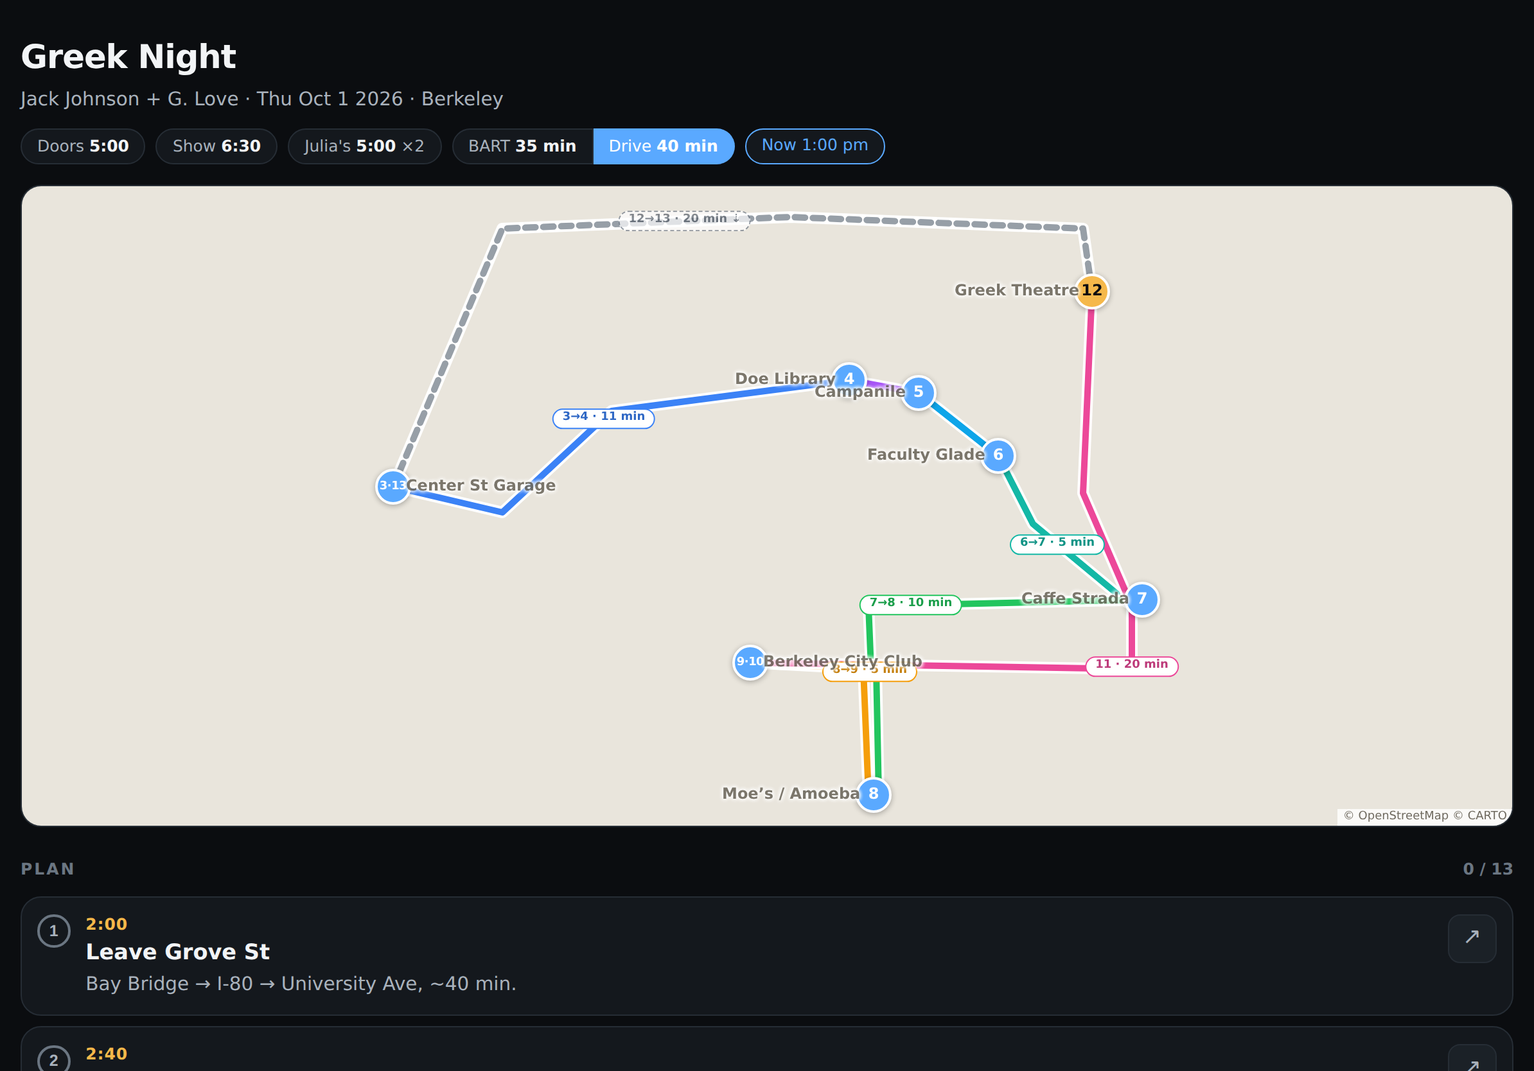
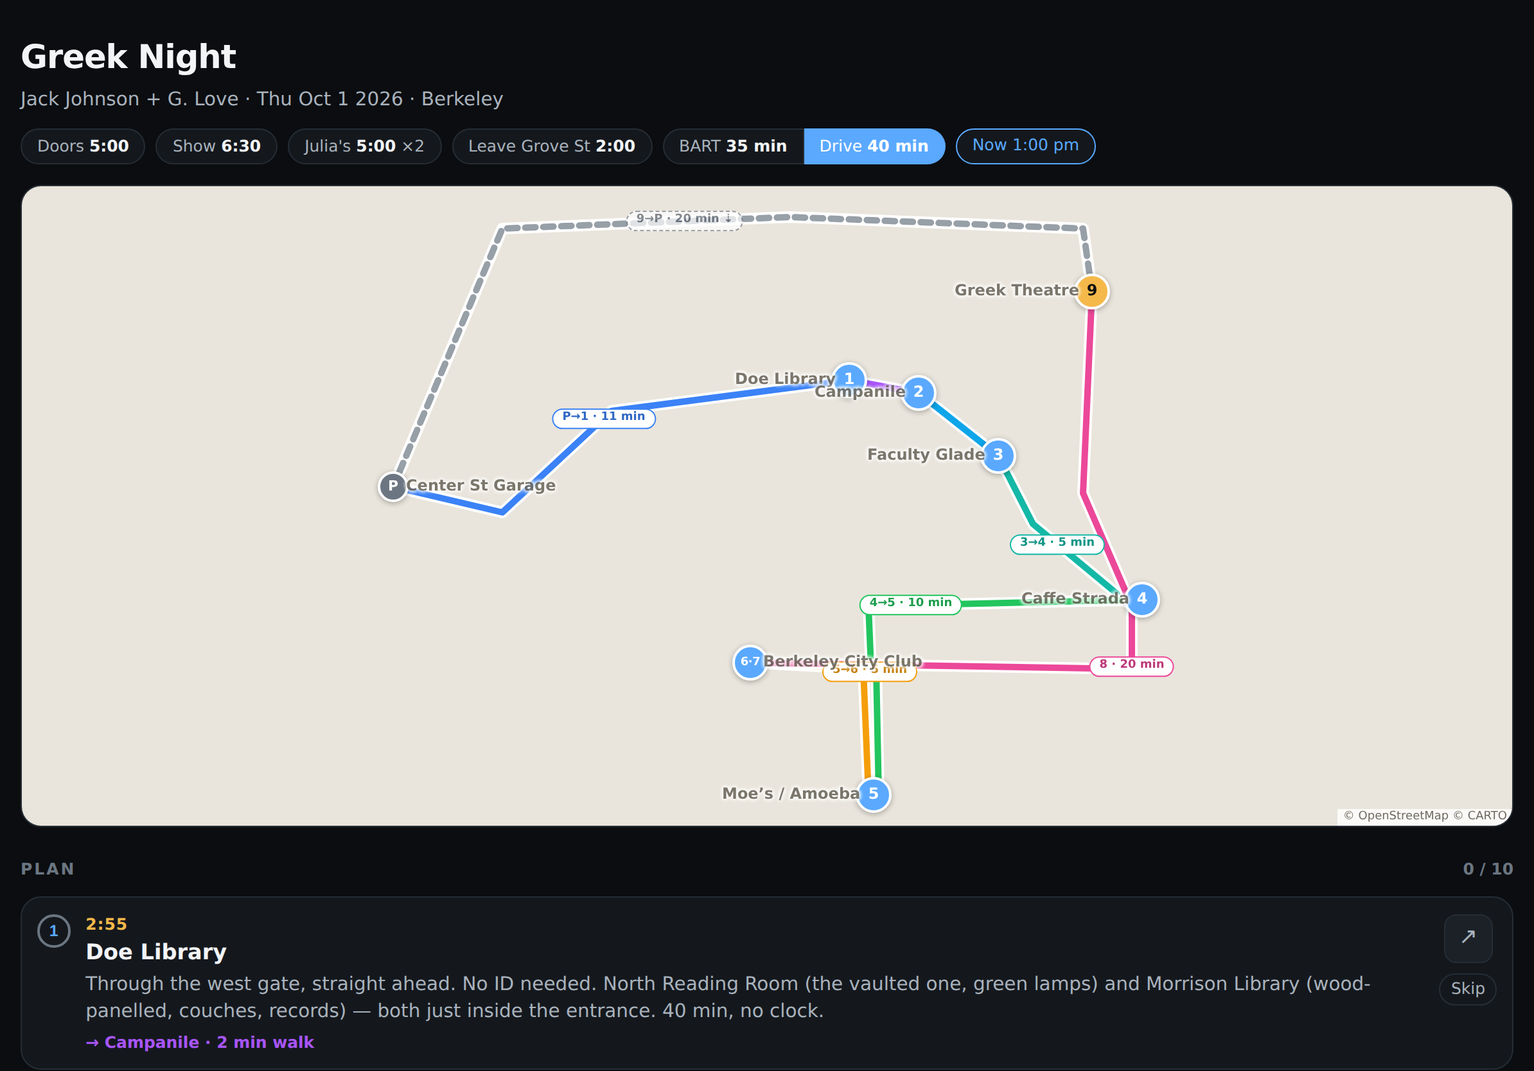
greek-night: Leaflet tile map, 10-step plan, walk-to-next on rows
The Leaflet map landed in 9ee3f88; this commit reshapes the plan on it.

The plan is 10 steps from the library: Doe, the Campanile ride, Faculty
Glade, Strada, Telegraph, City Club and Julia's (6·7), the walk up (pill
"8 · 20 min"), the Greek (9) and home (10). Getting there moves out of
the plan: a "Leave Grove St 2:00" chip joins the header, and the start
pin is an unnumbered 24px grey circle lettered P (garage) or B (BART)
that also ends the walk back in Drive; BART ends it at an unnumbered
North Gate pin. Only step 10 changes with the mode. Legs are keyed from
the start pin (S-1 … 6-9), steps 1–6 can be skipped, and the Sather Gate
override is 2-5.

Every row with a pin shows the walk on, in the leg's colour, off the
live legs: "→ Campanile · 2 min walk", the dinner row "→ Greek Theatre ·
20 min walk, uphill", the Greek row the walk back. Row 6 points at
dinner in the same building. Storage key moves to greek-night-v4.

Claude-Session: https://claude.ai/code/session_01SYEqCQ4izqiJdBAjLeUwFf

diff --git a/greek-night.html b/greek-night.html
@@ -56,6 +56,8 @@
   .item.now .time,.item.linked .time{color:var(--now)}
   .title{font-size:var(--t2);font-weight:600;margin-top:.1rem}
   .note{color:var(--ink2);font-size:var(--t3);margin-top:var(--s1)}
+  .next{font-size:var(--t4);font-weight:600;margin-top:var(--s1)}
+  .next:empty{display:none}
   .map{flex:none;display:inline-grid;place-items:center;width:2.4rem;height:2.4rem;border-radius:var(--r2);background:var(--card2);border:1px solid var(--line);text-decoration:none;font-size:1.1rem;margin-top:.05rem;color:var(--ink2)}
   .map:active{background:var(--line)}
   .side{display:flex;flex-direction:column;align-items:center;gap:var(--s2)}
@@ -76,6 +78,7 @@
   /* pins: a numbered circle; a ring pulses on the current step; done steps fade */
   .pinm{width:28px;height:28px;border-radius:50%;background:var(--now);border:2px solid #fff;color:#fff;font-weight:700;font-size:12px;display:grid;place-items:center;box-shadow:0 1px 4px rgba(0,0,0,.3);transition:opacity .2s}
   .pinm.greek{background:var(--accent);color:#0b0d10}
+  .pinm.start{width:24px;height:24px;background:var(--ink3);font-size:11px}
   .pinm.two{font-size:9px;letter-spacing:-.03em}
   .pinm.done{opacity:.45}
   .pinm.now::after{content:"";position:absolute;inset:-2px;border-radius:50%;border:2px solid var(--now);animation:gnPulse 2s ease-out infinite}
@@ -110,6 +113,7 @@
     <span class="chip">Doors <b>5:00</b></span>
     <span class="chip">Show <b>6:30</b></span>
     <span class="chip">Julia's <b>5:00</b> ×2</span>
+    <span class="chip">Leave Grove St <b>2:00</b></span>
     <span class="modes" role="group" aria-label="Getting there"><button type="button" class="chip seg" data-mode="bart" aria-pressed="true">BART <b>35 min</b></button><button type="button" class="chip seg" data-mode="drive" aria-pressed="false">Drive <b>40 min</b></button></span>
     <span class="chip now" id="clock"><span id="clocktime">—</span><span class="sub" id="clocksub" hidden></span></span>
   </div>
@@ -142,7 +146,6 @@
 
   var GARAGE_MAP = M('Center Street Parking Garage 2025 Center St Berkeley');
   var PLAN = [
-    null, null, null,
     {t:'2:55', h:14, m:55, title:'Doe Library', note:'Through the west gate, straight ahead. No ID needed. North Reading Room (the vaulted one, green lamps) and Morrison Library (wood-panelled, couches, records) — both just inside the entrance. 40 min, no clock.', map:M('Doe Memorial Library UC Berkeley')},
     {t:'3:35', h:15, m:35, title:'Campanile — up', note:'$6, card only, open till 5. Ride up, 15 min on the deck: the bay, both bridges, the Greek below you.', map:M('Sather Tower UC Berkeley')},
     {t:'3:55', h:15, m:55, title:'Faculty Glade', note:'Behind the tower toward College: quiet lawn under old oaks, redwoods, Strawberry Creek running through. Sit 15.', map:M('Faculty Glade UC Berkeley')},
@@ -154,22 +157,12 @@
     {t:'6:35', h:18, m:35, title:'In the gate', note:'G. Love on. Jack ~8:00. Done ~10:15. GA pit — standing, front of stage. Water refill on the middle concourse.', map:M('Greek Theatre 2001 Gayley Rd Berkeley')},
     null
   ];
-  /* Getting there and back depends on the travel mode; steps 4–12 are the same either way */
+  /* the way home depends on the travel mode; so do the start pin and the walk back, below */
   var MODE_ROWS = {
-    bart: {
-      0:{t:'2:00', h:14, m:0, title:'Leave Grove St', note:'Uber to Civic Center BART.', map:M('Civic Center BART Station San Francisco')},
-      1:{t:'2:20', h:14, m:20, title:'Red line → Richmond', note:'Sit on the right side for the bay. ~35 min.', map:M('Civic Center BART Station San Francisco')},
-      2:{t:'2:55', h:14, m:55, title:'Downtown Berkeley BART', note:'Exit to Shattuck, east on Center St two blocks to campus.', map:M('Downtown Berkeley BART Station')},
-      12:{t:'10:15', h:22, m:15, title:'Uber from North Gate', note:'Out the north side: up Gayley to Hearst, west on Hearst to Euclid. 8 min downhill, clear of the Gayley crowd. If surge is bad keep going west to Shattuck (10 more min).', map:M('Hearst Ave & Euclid Ave Berkeley')}
-    },
-    drive: {
-      0:{t:'2:00', h:14, m:0, title:'Leave Grove St', note:'Bay Bridge → I-80 → University Ave, ~40 min.', map:GARAGE_MAP},
-      1:{t:'2:40', h:14, m:40, title:'Park · Center St Garage', note:'2025 Center St, enter from Center. $25 for the day, exit by 1 am. 20 EV spots — plug in.', map:GARAGE_MAP},
-      2:{t:'2:50', h:14, m:50, title:'Walk from the garage', note:'Out onto Center St, east two blocks to campus.', map:GARAGE_MAP},
-      12:{t:'10:15', h:22, m:15, title:'Back to the car', note:'Out the north side: Gayley → Hearst west → Oxford south → Center. 15 min downhill, clear of the Gayley crowd.', map:GARAGE_MAP}
-    }
+    bart: {9:{t:'10:15', h:22, m:15, title:'Uber from North Gate', note:'Out the north side: up Gayley to Hearst, west on Hearst to Euclid. 8 min downhill, clear of the Gayley crowd. If surge is bad keep going west to Shattuck (10 more min).', map:M('Hearst Ave & Euclid Ave Berkeley')}},
+    drive: {9:{t:'10:15', h:22, m:15, title:'Back to the car', note:'Out the north side: Gayley → Hearst west → Oxford south → Center. 20 min downhill, clear of the Gayley crowd.', map:GARAGE_MAP}}
   };
-  var MODE_STEPS = [0, 1, 2, 12];
+  var MODE_STEPS = [9];
 
   var BRING = [
     'Hoodie / jacket — mid-50s after dark',
@@ -181,7 +174,7 @@
     'Phone charged · Clipper in Wallet · tickets in Wallet'
   ];
 
-  var KEY = 'greek-night-v3';
+  var KEY = 'greek-night-v4';
   var state = {};
   try { state = JSON.parse(localStorage.getItem(KEY) || '{}') || {}; } catch (e) { state = {}; }
   function save(){ try { localStorage.setItem(KEY, JSON.stringify(state)); } catch (e) {} }
@@ -204,6 +197,7 @@
     if (time) { var tt = document.createElement('div'); tt.className = 'time'; tt.textContent = time; body.appendChild(tt); }
     var ti = document.createElement('div'); ti.className = 'title'; ti.textContent = title; body.appendChild(ti);
     if (note) { var nn = document.createElement('div'); nn.className = 'note'; nn.textContent = note; body.appendChild(nn); }
+    if (id.charAt(0) === 'p') { var nx = document.createElement('div'); nx.className = 'next'; body.appendChild(nx); }
     el.appendChild(cb); el.appendChild(body);
     if (map) {
       var a = document.createElement('a'); a.className = 'map'; a.href = map; a.target = '_blank'; a.rel = 'noopener';
@@ -219,10 +213,10 @@
   var rowEls = PLAN.map(function(p, i){ return planEl.appendChild(row('p' + i, p.t, p.title, p.note, p.map)); });   /* by step; the list itself reorders */
   BRING.forEach(function(b, i){ bringEl.appendChild(row('b' + i, '', b, '', '')); });
 
-  /* steps 4–9 can be skipped: a chip under the ↗ button; the row's right column stacks the two */
+  /* steps 1–6 can be skipped: a chip under the ↗ button; the row's right column stacks the two */
   function isSkipped(step){ return !!(state.skip && state.skip['p' + (step - 1)]); }
   function skipGain(i){ return (PLAN[i + 1].h * 60 + PLAN[i + 1].m) - (PLAN[i].h * 60 + PLAN[i].m); }
-  [4, 5, 6, 7, 8, 9].forEach(function(step){
+  [1, 2, 3, 4, 5, 6].forEach(function(step){
     var r = rowEls[step - 1], a = r.querySelector('.map');
     var side = document.createElement('div'); side.className = 'side';
     r.replaceChild(side, a); side.appendChild(a);
@@ -298,6 +292,8 @@
       var note = r.querySelector('.note'), btn = r.querySelector('.skipbtn');
       if (note) note.textContent = sk ? 'Skipped · +' + skipGain(i) + ' min' : PLAN[i].note;
       if (btn) btn.textContent = sk ? 'Restore' : 'Skip';
+      var nx = r.querySelector('.next'), wl = sk ? null : walkNext(i + 1);
+      if (nx) { nx.textContent = wl ? wl.txt : ''; nx.style.color = wl ? wl.col : ''; }
       if (sk) skipped++; else if (checked) done++;
     });
     reorder(ps);
@@ -310,60 +306,74 @@
     paintMap(ps.cur);
   }
 
+  /* the walk on from a step's stop, off the live legs: the stop's last step gets its outbound leg (the Greek gets the walk
+     back); an earlier step at a shared stop just points at the next step there */
+  function walkNext(k){
+    var pin = PLACES.filter(function(s){ return s.steps.indexOf(k) >= 0; })[0];
+    if (!pin) return null;
+    var ls = liveSteps(pin);
+    if (k !== ls[ls.length - 1]) return {txt:'→ ' + PLAN[ls[ls.indexOf(k) + 1] - 1].title + ' · same building', col:''};
+    var l = LEGS.filter(function(l){ return l.a === pin; })[0];
+    if (!l) return null;
+    return {txt:'→ ' + l.b.n + ' · ' + l.min + ' min walk' + (l.b.greek ? ', uphill' : ''), col:l.col};
+  }
+
   /* ---------- the route: pins, legs, bypasses ---------- */
   var SHARED = [
-    {n:'Doe Library', lat:37.8723, lng:-122.2592, steps:[4]},
-    {n:'Campanile', lat:37.8721, lng:-122.2578, steps:[5]},
-    {n:'Faculty Glade', lat:37.8711, lng:-122.2562, steps:[6]},
-    {n:'Caffe Strada', lat:37.8688, lng:-122.2533, steps:[7]},
-    {n:'Moe’s / Amoeba', lat:37.8657, lng:-122.2587, steps:[8]},
-    {n:'Berkeley City Club', lat:37.8678, lng:-122.2612, steps:[9, 10]},
-    {n:'Greek Theatre', lat:37.8737, lng:-122.2543, steps:[12], greek:true}
+    {n:'Doe Library', lat:37.8723, lng:-122.2592, steps:[1]},
+    {n:'Campanile', lat:37.8721, lng:-122.2578, steps:[2]},
+    {n:'Faculty Glade', lat:37.8711, lng:-122.2562, steps:[3]},
+    {n:'Caffe Strada', lat:37.8688, lng:-122.2533, steps:[4]},
+    {n:'Moe’s / Amoeba', lat:37.8657, lng:-122.2587, steps:[5]},
+    {n:'Berkeley City Club', lat:37.8678, lng:-122.2612, steps:[6, 7]},
+    {n:'Greek Theatre', lat:37.8737, lng:-122.2543, steps:[9], greek:true}
   ];
-  /* per mode: the pin step 3 starts from, the pin step 13 ends at (when it's not the same one) and the walk back */
+  SHARED.forEach(function(s){ s.ord = s.steps[0]; });
+  /* per mode: the unnumbered start pin (ord 0, a letter), the walk back, and for BART an unnumbered end pin instead of the start */
   var MODES = {
-    bart: {start:{n:'Downtown Berkeley BART', lat:37.8699, lng:-122.2681, steps:[3]},
-           home:{n:'North Gate', lat:37.8749, lng:-122.2604, steps:[13], home:true},   /* the Uber home: end of the return, not on the walk out */
+    bart: {start:{n:'Downtown Berkeley BART', lat:37.8699, lng:-122.2681, steps:[], ord:0, start:true, letter:'B', map:M('Downtown Berkeley BART Station')},
+           end:{n:'North Gate', lat:37.8749, lng:-122.2604, steps:[], ord:99, end:true, map:M('Hearst Ave & Euclid Ave Berkeley')},
            back:[[37.8737, -122.2543], [37.8747, -122.2545], [37.8749, -122.2604]]},   /* Greek → Gayley & Hearst → North Gate */
-    drive: {start:{n:'Center St Garage', lat:37.8706, lng:-122.2684, steps:[3, 13]}, home:null,
+    drive: {start:{n:'Center St Garage', lat:37.8706, lng:-122.2684, steps:[], ord:0, start:true, letter:'P', map:GARAGE_MAP}, end:null,
             back:[[37.8737, -122.2543], [37.8747, -122.2545], [37.8749, -122.2604], [37.8747, -122.2662], [37.8706, -122.2684]]}   /* Greek → Hearst → Oxford → the garage */
   };
   var PLACES = [], BACK = [];
   /* walk out, as legs between pins: the waypoints between the two; the Bancroft & College retrace is the same sidewalk */
   var LEG_WP = {
-    '3-4': [[37.8702, -122.2662], [37.8718, -122.2640]],
-    '4-5': [],
-    '5-6': [],
-    '6-7': [[37.8700, -122.2555], [37.8687, -122.2535]],
-    '7-8': [[37.8687, -122.2588]],
-    '8-9': [[37.8677, -122.2588]],
-    '9-12': [[37.8677, -122.2535], [37.8687, -122.2535], [37.8705, -122.2545]]
+    'S-1': [[37.8702, -122.2662], [37.8718, -122.2640]],
+    '1-2': [],
+    '2-3': [],
+    '3-4': [[37.8700, -122.2555], [37.8687, -122.2535]],
+    '4-5': [[37.8687, -122.2588]],
+    '5-6': [[37.8677, -122.2588]],
+    '6-9': [[37.8677, -122.2535], [37.8687, -122.2535], [37.8705, -122.2545]]
   };
   /* a skipped pin's two legs splice into one: the waypoints from the previous pin to the next; adjacent skips chain in order */
   var BYPASS = {
-    4: [[37.8702, -122.2662], [37.8718, -122.2640], [37.8723, -122.2592]],
-    5: [],
-    6: [[37.8700, -122.2555], [37.8687, -122.2535]],
-    7: [[37.8700, -122.2555], [37.8687, -122.2535], [37.8687, -122.2588]],
-    8: [[37.8687, -122.2588], [37.8687, -122.2612]],
-    9: [[37.8677, -122.2588], [37.8677, -122.2535], [37.8687, -122.2535], [37.8705, -122.2545]]
+    1: [[37.8702, -122.2662], [37.8718, -122.2640], [37.8723, -122.2592]],
+    2: [],
+    3: [[37.8700, -122.2555], [37.8687, -122.2535]],
+    4: [[37.8700, -122.2555], [37.8687, -122.2535], [37.8687, -122.2588]],
+    5: [[37.8687, -122.2588], [37.8687, -122.2612]],
+    6: [[37.8677, -122.2588], [37.8677, -122.2535], [37.8687, -122.2535], [37.8705, -122.2545]]
   };
   /* a better walk than the chained bypasses, from one pin to a later one with everything between skipped:
      Campanile → Sather Gate → Telegraph when the Glade and Strada are skipped. Used inside a chain too. */
-  var GAP_OVERRIDE = {'5-8': [[37.8703, -122.2595], [37.8687, -122.2588]]};
-  /* one colour per leg; a leg spliced by a skip takes the colour of the leg it starts with */
-  var LEG_COLOURS = {'3-4':'#3b82f6', '4-5':'#a855f7', '5-6':'#0ea5e9', '6-7':'#14b8a6', '7-8':'#22c55e', '8-9':'#f59e0b', '9-12':'#ec4899', 'ret':'#6b7682'};
-  function legColour(fromStep){
-    for (var k in LEG_COLOURS) if (k.split('-')[0] === String(fromStep)) return LEG_COLOURS[k];
+  var GAP_OVERRIDE = {'2-5': [[37.8703, -122.2595], [37.8687, -122.2588]]};
+  /* one colour per leg, keyed by the pin it starts from (S = the start pin); a leg spliced by a skip takes the colour of the leg it starts with */
+  var LEG_COLOURS = {'S-1':'#3b82f6', '1-2':'#a855f7', '2-3':'#0ea5e9', '3-4':'#14b8a6', '4-5':'#22c55e', '5-6':'#f59e0b', '6-9':'#ec4899', 'ret':'#6b7682'};
+  function kid(s){ return s.start ? 'S' : String(s.steps[0]); }   /* a pin's key in the leg tables */
+  function legColour(fromKey){
+    for (var k in LEG_COLOURS) if (k.split('-')[0] === fromKey) return LEG_COLOURS[k];
     return LEG_COLOURS.ret;
   }
   function darker(hex){   /* 20% darker, for pill text */
     var n = parseInt(hex.slice(1), 16), c = [n >> 16 & 255, n >> 8 & 255, n & 255].map(function(v){ return Math.round(v * 0.8); });
     return '#' + c.map(function(v){ return ('0' + v.toString(16)).slice(-2); }).join('');
   }
-  /* a pin stays while any of its steps is live: skip 9 and City Club remains for dinner, reading 10 */
+  /* a pin stays while any of its steps is live: skip 6 and City Club remains for dinner, reading 7. The start and end pins always stay. */
   function liveSteps(s){ return s.steps.filter(function(k){ return !isSkipped(k); }); }
-  function livePlaces(){ return PLACES.filter(function(s){ return liveSteps(s).length > 0; }); }
+  function livePlaces(){ return PLACES.filter(function(s){ return s.start || s.end || liveSteps(s).length > 0; }); }
   /* walk time per leg: haversine along the waypoints, 3 mph (20 min/mile); the climb to the Greek at 2.5 mph */
   function metres(a, b){
     var R = 6371000, r = Math.PI / 180, dl = (b[0] - a[0]) * r, dg = (b[1] - a[1]) * r;
@@ -371,27 +381,27 @@
     return 2 * R * Math.asin(Math.sqrt(x));
   }
   function walkLegs(){
-    var live = livePlaces().filter(function(s){ return !s.home; }), legs = [];   /* the walk out; a home-only pin (North Gate) is just the return's end */
+    var live = livePlaces().filter(function(s){ return !s.end; }), legs = [];   /* the walk out; an end pin (North Gate) is just the return's end */
     for (var i = 1; i < live.length; i++) {
       var a = live[i - 1], b = live[i], pts = [[a.lat, a.lng]];
-      var key = a.steps[0] + '-' + b.steps[0];
-      var gap = PLACES.filter(function(s){ return s.steps[0] > a.steps[0] && s.steps[0] < b.steps[0]; });   /* the skipped pins between them, in order */
+      var key = kid(a) + '-' + kid(b);
+      var gap = SHARED.filter(function(s){ return s.ord > a.ord && s.ord < b.ord; });   /* the skipped pins between them, in order */
       if (!gap.length) pts = pts.concat(LEG_WP[key] || []);
       /* through the skipped run: at each skipped pin, the longest override from the pin before it, else its bypass */
       for (var g = 0; g < gap.length;) {
-        var from = g ? gap[g - 1].steps[0] : a.steps[0], j = gap.length;
-        for (; j > g; j--) if (GAP_OVERRIDE[from + '-' + (j < gap.length ? gap[j] : b).steps[0]]) break;
-        if (j > g) { pts = pts.concat(GAP_OVERRIDE[from + '-' + (j < gap.length ? gap[j] : b).steps[0]]); g = j; }
-        else { pts = pts.concat(BYPASS[gap[g].steps[0]]); g++; }
+        var from = g ? kid(gap[g - 1]) : kid(a), j = gap.length;
+        for (; j > g; j--) if (GAP_OVERRIDE[from + '-' + kid(j < gap.length ? gap[j] : b)]) break;
+        if (j > g) { pts = pts.concat(GAP_OVERRIDE[from + '-' + kid(j < gap.length ? gap[j] : b)]); g = j; }
+        else { pts = pts.concat(BYPASS[gap[g].ord]); g++; }
       }
       pts.push([b.lat, b.lng]);
-      /* named by the steps at each end; the climb to the Greek is step 11, so it carries just that */
-      legs.push({pts:pts, mph:b.greek ? 2.5 : 3, a:a, b:b, col:legColour(a.steps[0]),
-                 name:b.greek ? '11' : liveSteps(a)[0] + '→' + liveSteps(b)[0]});
+      /* named by the steps at each end (the start pin by its letter); the climb to the Greek is step 8, so it carries just that */
+      legs.push({pts:pts, mph:b.greek ? 2.5 : 3, a:a, b:b, col:legColour(kid(a)),
+                 name:b.greek ? '8' : (a.start ? a.letter : liveSteps(a)[0]) + '→' + liveSteps(b)[0]});
     }
-    /* the walk back out: Greek → North Gate for the Uber */
-    var greek = PLACES.filter(function(s){ return s.greek; })[0], home = PLACES.filter(function(s){ return s.steps.indexOf(12) >= 0; })[0];
-    legs.push({pts:BACK, mph:3, ret:true, a:greek, b:home, col:LEG_COLOURS.ret, name:'12→13'});
+    /* the walk back out: Greek → the car, or Greek → North Gate for the Uber */
+    var greek = PLACES.filter(function(s){ return s.greek; })[0], home = PLACES.filter(function(s){ return s.end; })[0] || PLACES[0];
+    legs.push({pts:BACK, mph:3, ret:true, a:greek, b:home, col:LEG_COLOURS.ret, name:'9→' + (home.start ? home.letter : home.n)});
     legs.forEach(function(l){
       var m = 0;
       for (var j = 1; j < l.pts.length; j++) m += metres(l.pts[j - 1], l.pts[j]);
@@ -402,7 +412,7 @@
   var LEGS = [];
   function routeData(){ LEGS = walkLegs(); }
   var K = Math.cos(37.87 * Math.PI / 180);
-  /* the active mode's steps 1–3 and 12, pins and walk back */
+  /* the active mode's step 10, pins and walk back */
   function applyMode(){
     var md = MODES[mode()];
     MODE_STEPS.forEach(function(i){
@@ -411,7 +421,7 @@
       r.querySelector('.title').textContent = p.title;
       r.querySelector('.map').href = p.map;
     });
-    PLACES = [md.start].concat(SHARED, md.home ? [md.home] : []);
+    PLACES = [md.start].concat(SHARED, md.end ? [md.end] : []);
     BACK = md.back;
     var segs = document.querySelectorAll('.modes .seg');
     for (var j = 0; j < segs.length; j++) {
@@ -513,7 +523,7 @@
     var dash = l.ret ? '8 6' : null;
     l.parts.forEach(function(pt, n){
       var off = hasOffset ? pt.off * 4 : 0, thin = !hasOffset && pt.off > 0;
-      var cls = 'leg' + (l.ret ? ' ret' : '') + ' l' + l.name.replace(/[^0-9]+/g, '-');
+      var cls = 'leg' + (l.ret ? ' ret' : '') + ' l' + l.name.replace(/[^0-9A-Za-z]+/g, '-');
       if (!thin) L.polyline(pt.ll, {color:'#fff', weight:9, opacity:1, lineJoin:'round', lineCap:'round', offset:off, interactive:false, className:'legcase'}).addTo(routeLayer);
       L.polyline(pt.ll, {color:l.col, weight:thin ? 3 : 5, opacity:l.ret ? .7 : 1, dashArray:dash, lineJoin:'round', lineCap:'round', offset:off, interactive:false, className:cls}).addTo(routeLayer);
     });
@@ -541,10 +551,10 @@
       L.marker(pillAt(l), {icon:L.divIcon({className:'walk' + (l.ret ? ' ret' : ''), html:html, iconSize:[0, 0]}), interactive:false, keyboard:false}).addTo(routeLayer);
     });
     PLACES.forEach(function(s, i){
-      var steps = liveSteps(s);
-      if (!steps.length) return;
-      var cls = 'pinm' + (s.greek ? ' greek' : '') + (steps.length > 1 ? ' two' : '');
-      var m = L.marker([s.lat, s.lng], {icon:L.divIcon({className:cls, html:'<span>' + steps.join('·') + '</span>', iconSize:[28, 28], iconAnchor:[14, 14]}), keyboard:false, riseOnHover:true}).addTo(routeLayer);
+      var steps = liveSteps(s), plain = s.start || s.end;
+      if (!steps.length && !plain) return;
+      var cls = 'pinm' + (s.greek ? ' greek' : '') + (steps.length > 1 ? ' two' : '') + (plain ? ' start' : ''), sz = plain ? 24 : 28;
+      var m = L.marker([s.lat, s.lng], {icon:L.divIcon({className:cls, html:'<span>' + (plain ? (s.letter || '') : steps.join('·')) + '</span>', iconSize:[sz, sz], iconAnchor:[sz / 2, sz / 2]}), keyboard:false, riseOnHover:true}).addTo(routeLayer);
       m.bindTooltip(esc(s.n), {permanent:true, direction:'auto', className:'pinlbl', offset:[0, 0], interactive:false});
       m.on('click', function(){ popOpen(i, m); });
       m.place = s; markers.push(m);
@@ -557,6 +567,7 @@
     markers.forEach(function(m){
       var el = m.getElement(); if (!el) return;
       var steps = liveSteps(m.place);
+      if (!steps.length) return;
       el.classList.toggle('done', steps.every(function(k){ return !!state['p' + (k - 1)]; }));
       el.classList.toggle('now', steps.some(function(k){ return k - 1 === ni && !state['p' + (k - 1)]; }));
     });
@@ -565,12 +576,12 @@
   function popClose(){ map.closePopup(); }
   function popOpen(i, m){
     var s = PLACES[i], steps = liveSteps(s);
-    var lines = [steps.map(function(k){ return 'step ' + k + ' · ' + esc(PLAN[k - 1].t); }).join(' / ')];
+    var lines = steps.length ? [steps.map(function(k){ return 'step ' + k + ' · ' + esc(PLAN[k - 1].t); }).join(' / ')] : [];
     LEGS.forEach(function(l){
       if (l.a === s || l.b === s) lines.push('<i class="pp-dot" style="background:' + l.col + '"></i>' + l.name + ' · ' + l.min + ' min');
     });
     L.popup({className:'pinpop', closeButton:false, minWidth:168, maxWidth:250, offset:[0, -12], autoPanPadding:[12, 12]})
-      .setLatLng(m.getLatLng()).setContent(popPill(PLAN[steps[0] - 1].map, esc(s.n), lines)).openOn(map);
+      .setLatLng(m.getLatLng()).setContent(popPill(steps.length ? PLAN[steps[0] - 1].map : s.map, esc(s.n), lines)).openOn(map);
     linkedRows.forEach(function(r){ r.classList.remove('linked'); });
     linkedRows = steps.map(function(k){ return rowEls[k - 1]; });
     linkedRows.forEach(function(r){ r.classList.add('linked'); });
@@ -620,7 +631,7 @@
   document.addEventListener('visibilitychange', function(){ if (document.hidden) stopWatch(); else startWatch(); });
 
   buildMap();
-  /* switching mode: the travel steps' ticks go (they're different steps now); 4–12 keep theirs; the map refits */
+  /* switching mode: step 10's tick goes (it's a different step now); the rest keep theirs; the map refits */
   document.querySelector('.modes').addEventListener('click', function(e){
     var b = e.target.closest ? e.target.closest('.seg') : null;
     if (!b || b.getAttribute('data-mode') === mode()) return;
